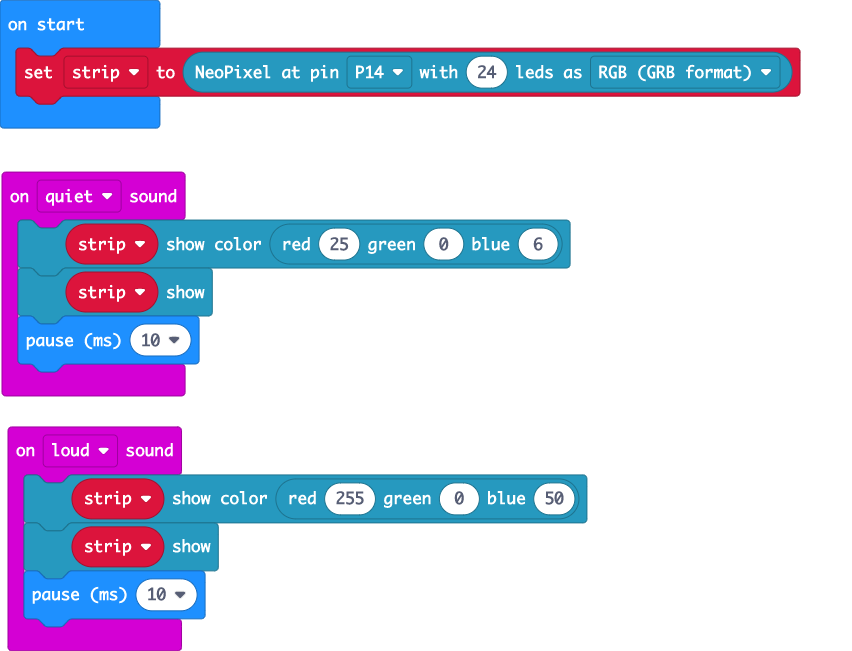
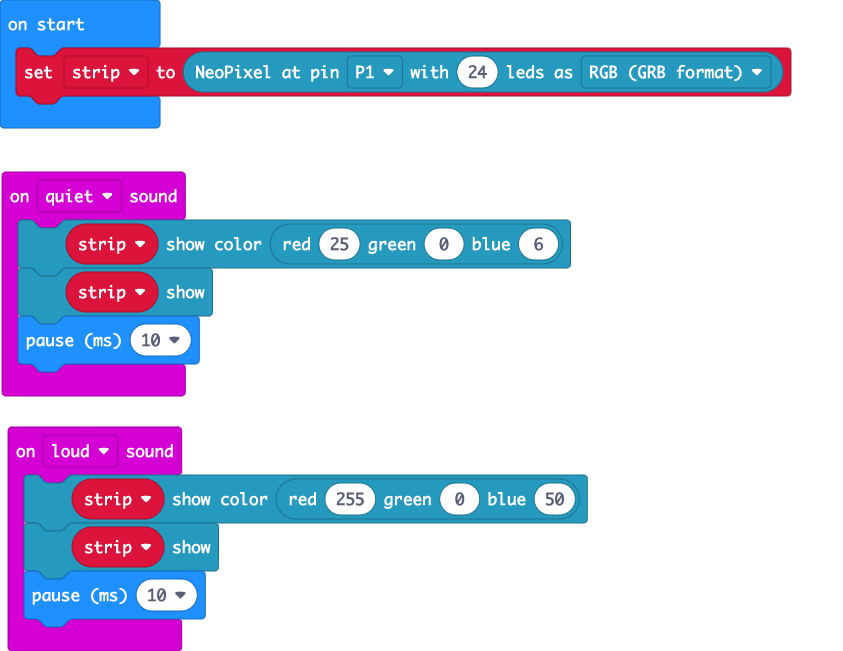
Update main.blocks, main.ts

diff --git a/main.ts b/main.ts
@@ -9,4 +9,4 @@ input.onSound(DetectedSound.Quiet, function () {
     basic.pause(10)
 })
 let strip: neopixel.Strip = null
-strip = neopixel.create(DigitalPin.P14, 24, NeoPixelMode.RGB)
+strip = neopixel.create(DigitalPin.P1, 24, NeoPixelMode.RGB)
